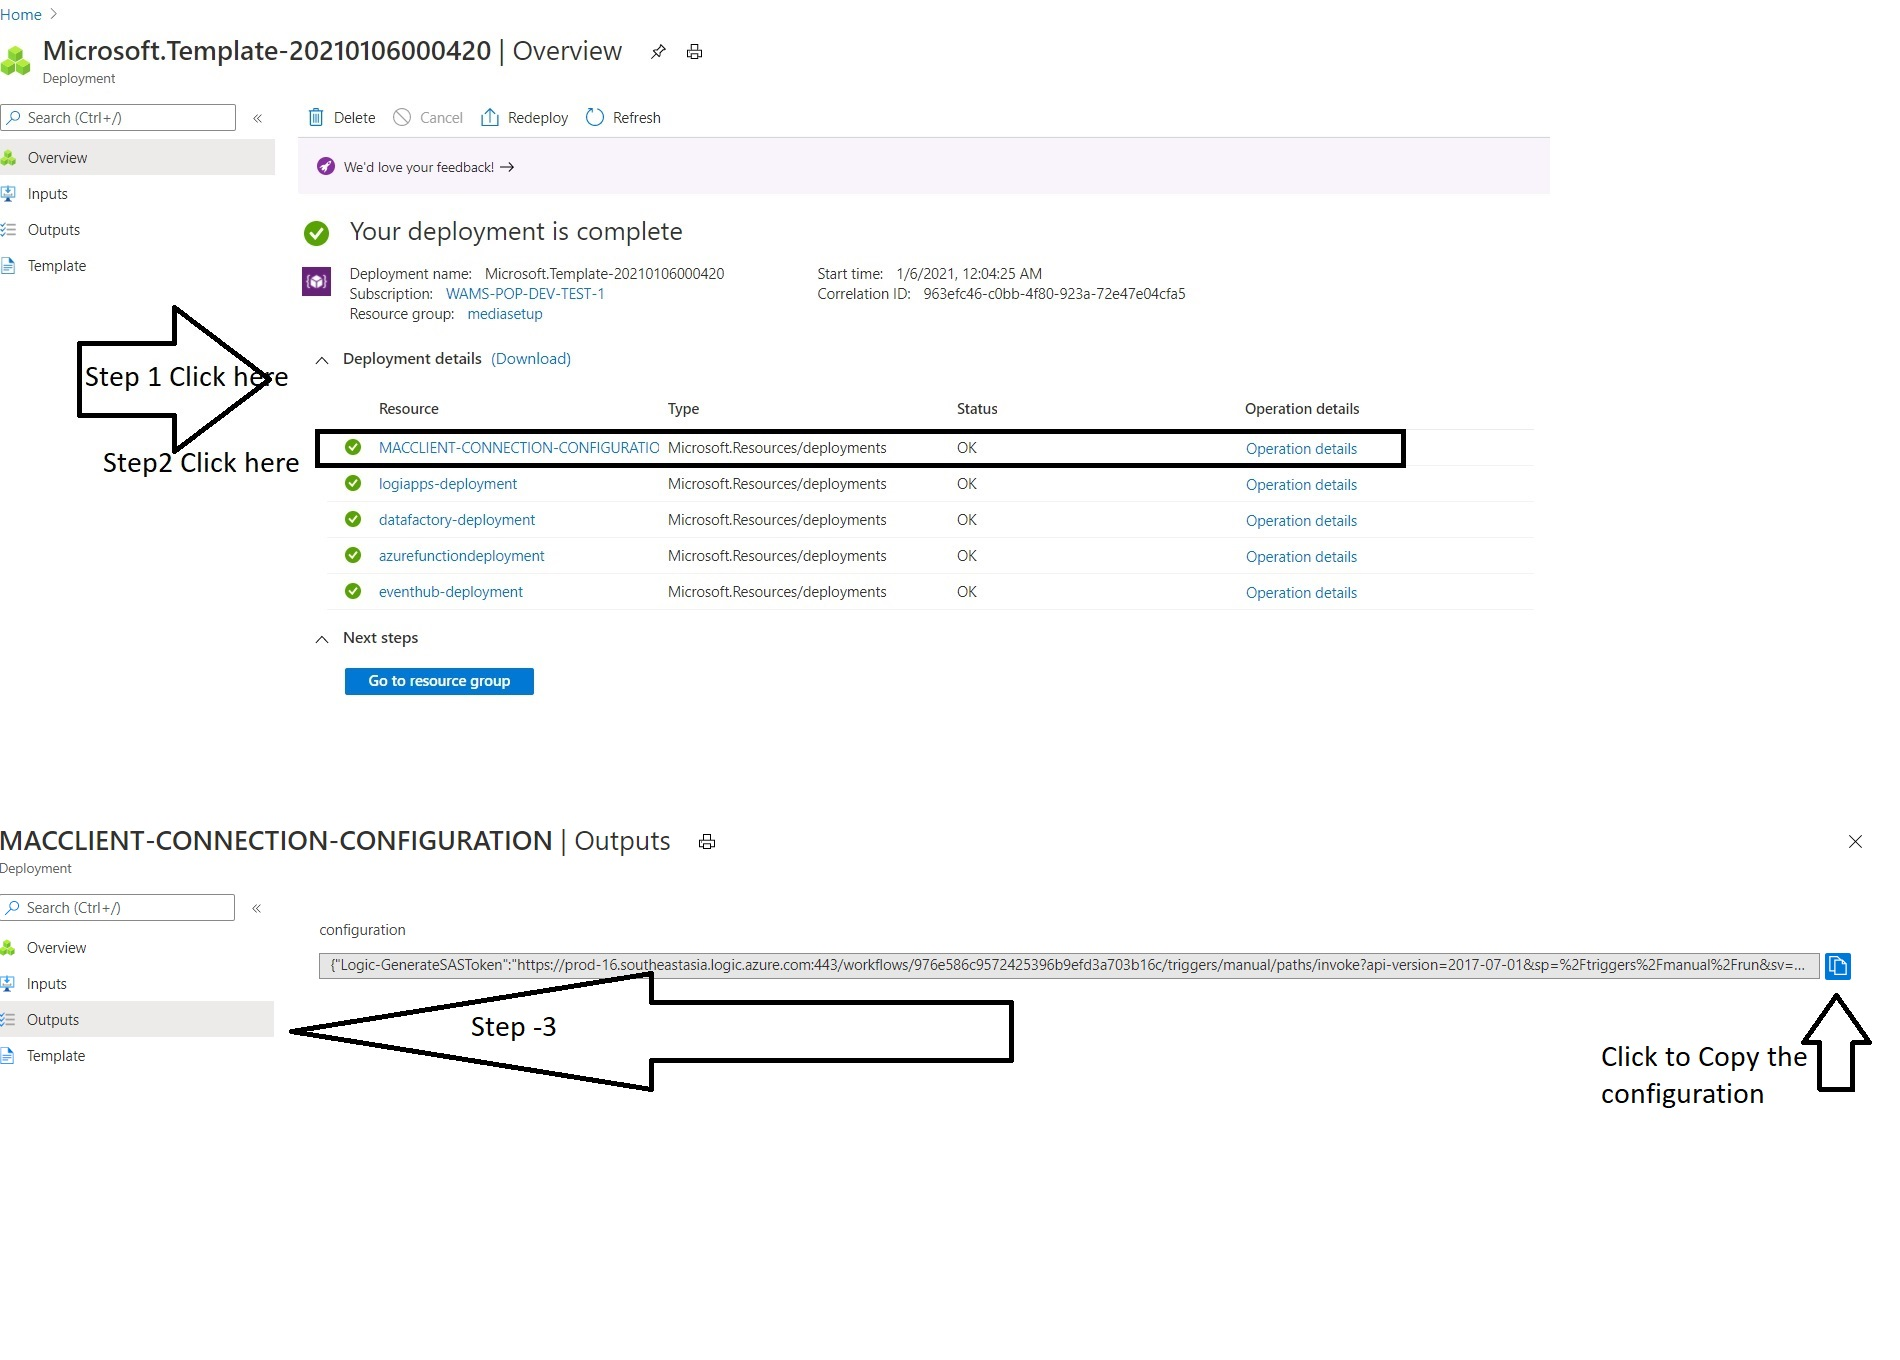
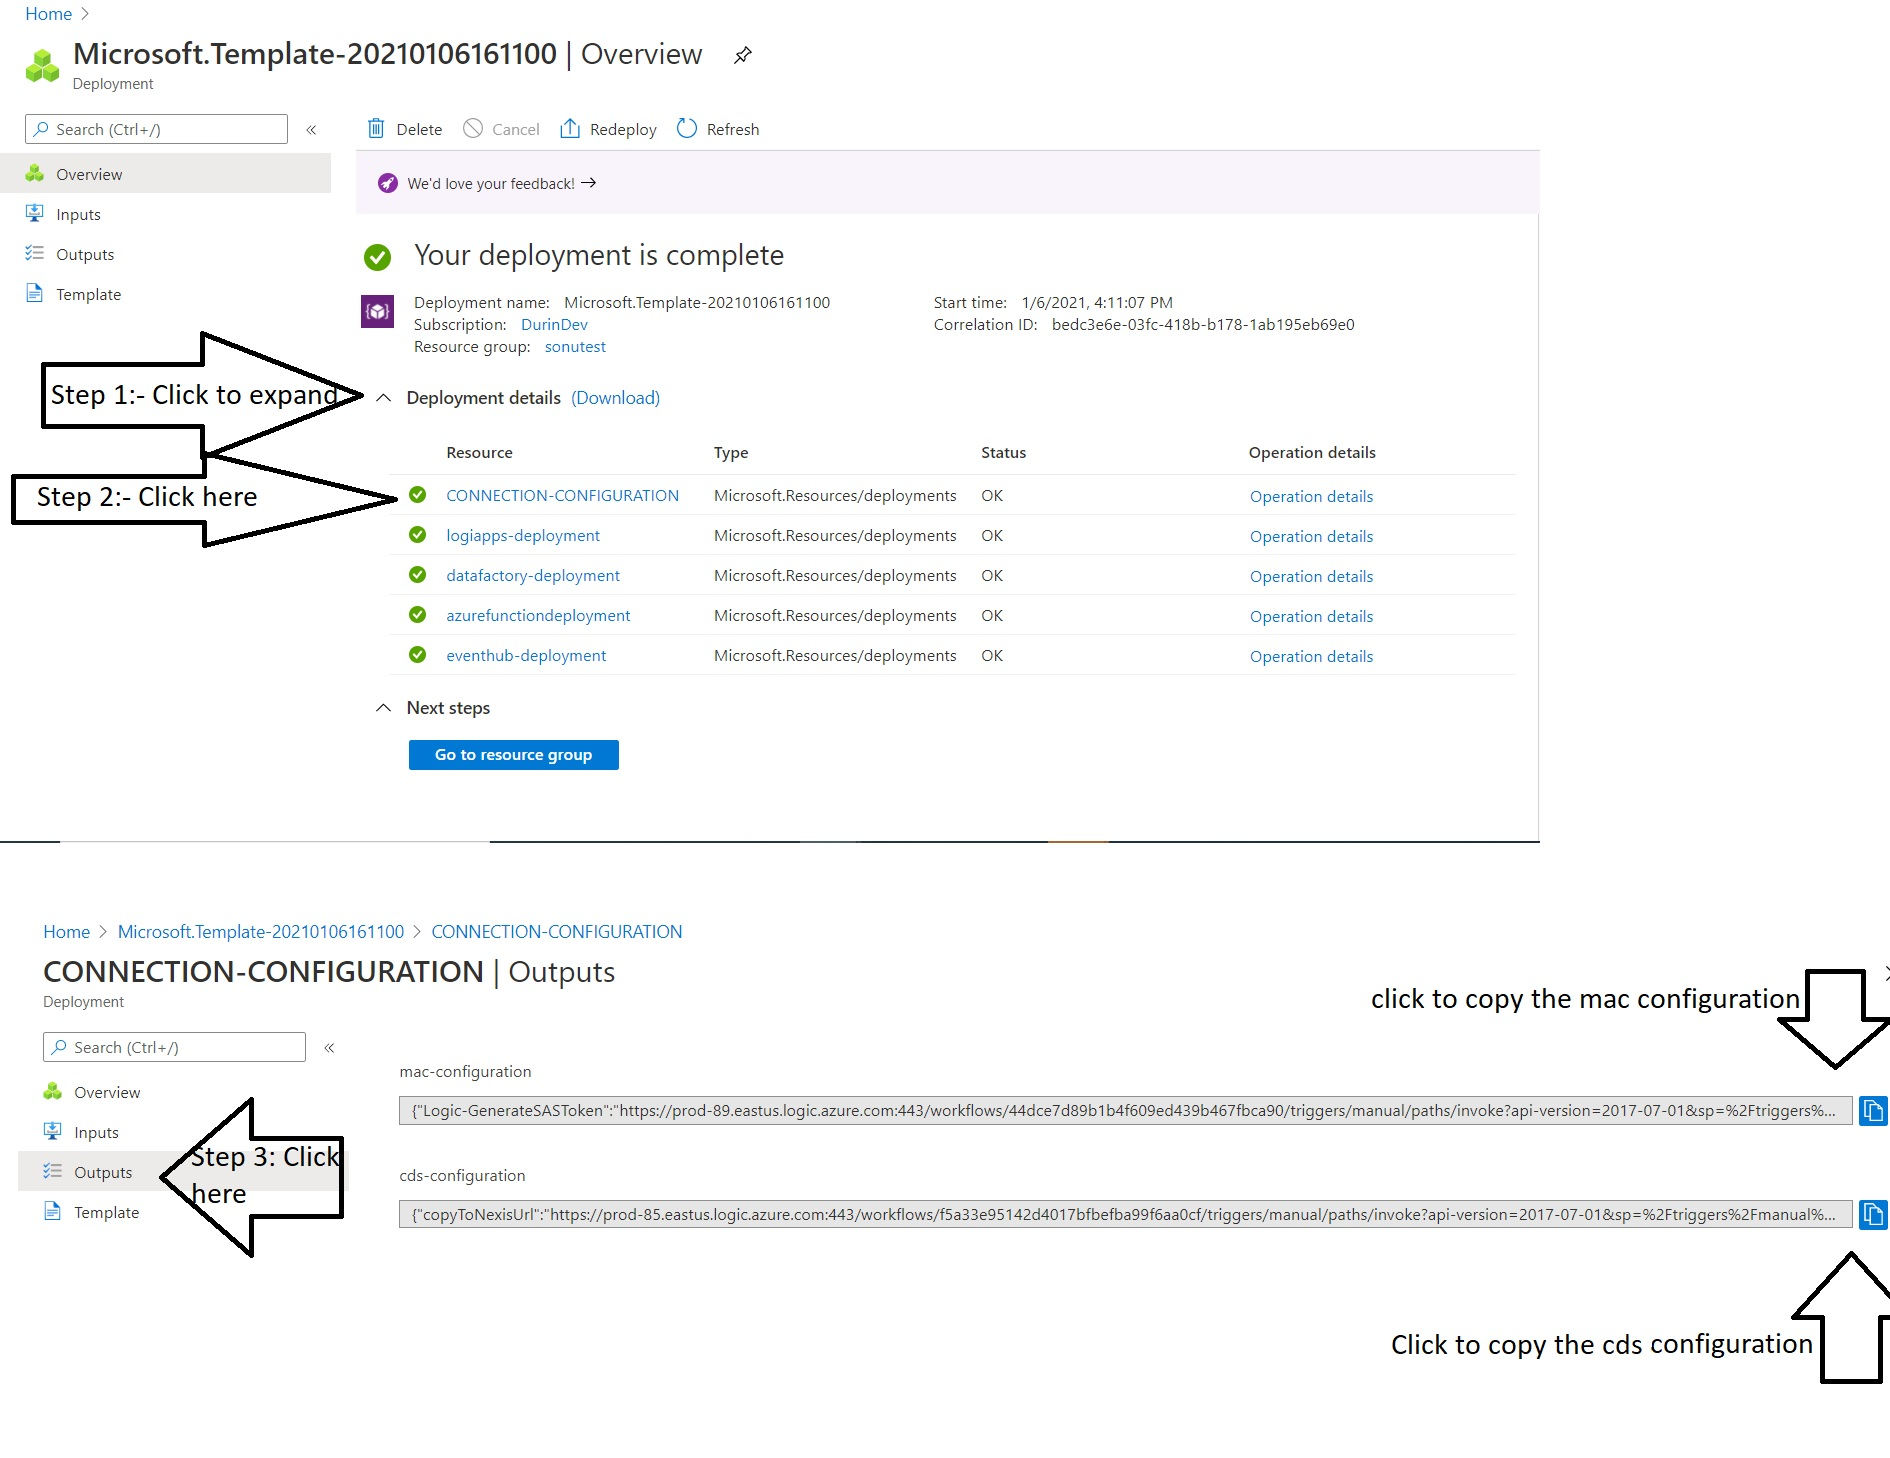
updated the image

diff --git a/README.md b/README.md
@@ -29,7 +29,9 @@ this unique name can be found in your CDS tenant(login to cds) -> Setting-> Cust
 
 ### Mac Client Connection configuration
 
-Once the azure component deployment completes, <b> Expand the Deployment details Section ->  Click on the MacClient Connection configuration -> Left pane "output link" -> Copy the configuration </b>. you will need this configuration, while setting up your Mac Client.
+Once the azure component deployment completes, <b> Expand the Deployment details Section ->  Click on the CONNECTION-CONFIGURATION -> Left pane "output link" -> Copy the MAC AND CDS configuration </b>. you will need this configuration, while setting up your Mac Client.
+
+<b> The MAC and CDS configuration will be needed in tenant setup and mac client setup</b>
 
 
 <img src="https://raw.githubusercontent.com/v-sosah/AzureMediaDeployment/durinmedia-azure-function/images/step3.jpg" width="900"/>
